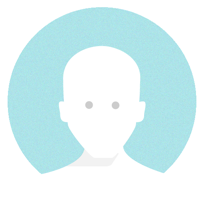
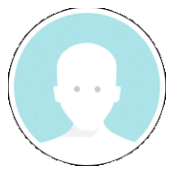
fix issue where dragging the image makes it move "faster" or "slower" then user intended. add autoscaling for large images

Changed region(s): [[0.0286, 0.0286, 0.9714, 0.9714], [0.5429, 0.4857, 0.6, 0.5429], [0.4, 0.4857, 0.4571, 0.5429]]

diff --git a/src/displays/display-resize-avatar.html b/src/displays/display-resize-avatar.html
@@ -370,8 +370,9 @@
             */
             _drawFile() {
                 if (this.image && this.canvasWidth && this.canvasHeight && this.scale && this.context) {
-                    let px = this.endX * (1 + (2-this.scale));
-                    let py = this.endY * (1 + (2-this.scale));
+                    let myscale = (this.canvasHeight/this.image.height)*this.scale;
+                    let px = 2*this.endX / (myscale);
+                    let py = 2*this.endY / (myscale);
                     let rad = this.angle * Math.PI / 180;
                     let nx = px * Math.cos(-rad) - py * Math.sin(-rad);
                     let ny = px * Math.sin(-rad) + py * Math.cos(-rad);
@@ -380,10 +381,10 @@
                     this.context.fillRect(0, 0, this.canvasWidth, this.canvasHeight);
                     this.context.save();
                     this.context.translate(this.canvasWidth * 0.5, this.canvasHeight * 0.5);
-                    this.context.scale(this.scale, this.scale);
+                    this.context.scale(myscale, myscale);
                     this.context.rotate(this.angle * Math.PI / 180);
-                    this.context.drawImage(this.image, - this.image.width * 0.5 + nx,
-                    - this.image.height * 0.5 + ny);
+                    this.context.drawImage(this.image, - 0.5 * (this.image.width - nx),
+                        - 0.5*(this.image.height - ny));
                     this.context.restore();
                     this.context.globalAlpha = 0.5;
                     this.context.fillRect(0, 0, this.canvasWidth, this.canvasHeight);
@@ -394,10 +395,10 @@
                     this.context.clip();
                     this.context.globalAlpha = 1;
                     this.context.translate(this.canvasWidth * 0.5, this.canvasHeight * 0.5);
-                    this.context.scale(this.scale, this.scale);
+                    this.context.scale(myscale, myscale);
                     this.context.rotate(this.angle * Math.PI / 180);
-                    this.context.drawImage(this.image, - this.image.width * 0.5 + nx,
-                    - this.image.height * 0.5 + ny);
+                    this.context.drawImage(this.image, - 0.5 * (this.image.width - nx),
+                         - 0.5*(this.image.height - ny));
                     this.context.restore();
                     this.context.save();
                     this.context.globalAlpha = 1;
@@ -429,6 +430,7 @@
             * @param {event} event The event from the on-change
             */
             _panStart(event) {
+                event.preventDefault();
                 this.mouseDown = true;
                 if (event.clientX===undefined) {
                         this.startX = event.touches[0].clientX - this.endX;
